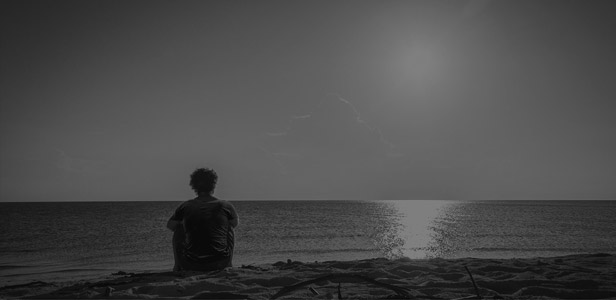
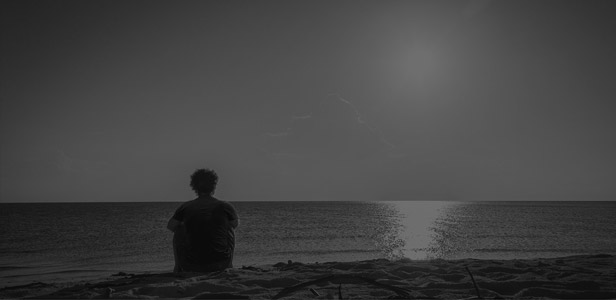
added new tshirt image

diff --git a/src/pages/index.html b/src/pages/index.html
@@ -35,7 +35,11 @@
     <h4 class="c-section__subtitle is-section-heading">Here are a few projects I have worked on</h4>
     <article class="l-portfolio-piece" data-js="waypoint">
       <div class="l-portfolio-piece__img column">
-        <img src="assets/img/work-cre.png" srcset="assets/img/work-cre-small.png 435w, assets/img/work-cre.png 735w" alt="Commercial Real Estate">
+        <img src="assets/img/work-cre.png"
+          srcset="assets/img/work-cre-small.png 435w,
+                  assets/img/work-cre.png 735w"
+          size="100vw"
+          alt="Commercial Real Estate">
       </div>
       <div class="l-portfolio-piece__content">
         <h2 class="c-section__title has-alt-align">Commercial Real Estate</h2>
@@ -55,12 +59,20 @@
         <a class="c-callout-visit" href="http://www.frasersproperty.com.au/" title="Frasers Proprty" target="_blank">Visit website</a>
       </div>
       <div class="l-portfolio-piece__img column">
-        <img src="assets/img/work-australand.png" srcset="assets/img/work-australand-small.png 435w, assets/img/work-australand.png 735w" alt="Australand">
+        <img src="assets/img/work-australand.png"
+             srcset="assets/img/work-australand-small.png 435w,
+                     assets/img/work-australand.png 735w"
+            size="100vw"
+             alt="Australand">
       </div>
     </article>
     <article class="l-portfolio-piece" data-js="waypoint">
       <div class="l-portfolio-piece__img column">
-        <img src="assets/img/work-neat.png" srcset="assets/img/work-neat-small.png 435w, assets/img/work-neat.png 735w" alt="Neat">
+        <img src="assets/img/work-neat.png"
+          srcset="assets/img/work-neat-small.png 435w,
+                  assets/img/work-neat.png 735w"
+          size="100vw"
+          alt="Neat">
       </div>
       <div class="l-portfolio-piece__content">
         <h2 class="c-section__title has-alt-align">This is Neat Cleaning</h2>

diff --git a/src/layouts/default.html b/src/layouts/default.html
@@ -18,14 +18,17 @@
     <meta name="application-name" content="&nbsp;"/>
     <meta name="msapplication-TileColor" content="#FFFFFF" />
     <meta name="msapplication-TileImage" content="mstile-144x144.png" />
+    <meta name="description" content="Pete Rawlings, Front End Developer living in Sydney. I craft simple, effective and user-centric web solutions."/>
     <link rel="stylesheet" href="{{root}}assets/css/app.css">
     <script src="https://use.typekit.net/eao0suc.js"></script>
     <script>try{Typekit.load({ async: true });}catch(e){}</script>
   </head>
   {{#ifpage 'index'}}
   <body class="page-home">
-  {{/ifpage}}
+    {{/ifpage}}
+  {{#unlesspage 'index'}}
   <body>
+  {{/unlesspage}}
       <!--[if IE]>
       <div class="browser-msg">
         <h3>Hi, you are using an outdated browser. This site also uses modern features to display properly. Please <a href="http://browsehappy.com/?locale=en">upgrade your browser here</a> and experience a safer web in all it's glory. Thanks.

diff --git a/src/assets/scss/_layout/_l-header.scss b/src/assets/scss/_layout/_l-header.scss
@@ -4,13 +4,13 @@
 .l-header {
   height: 50px;
   &.has-image {
-    background: url(../img/hero-small.jpg) top left no-repeat;
+    background: url(../img/hero-tshirt-small.jpg) top left no-repeat;
     background-position: bottom center;
     background-size: cover;
     min-height: 300px;
     @include breakpoint(large) {
       background-position: bottom left;
-      background-image: url(../img/hero.jpg);
+      background-image: url(../img/hero-tshirt.jpg);
       min-height: 100vh;
     }
     @include breakpoint(large) {
